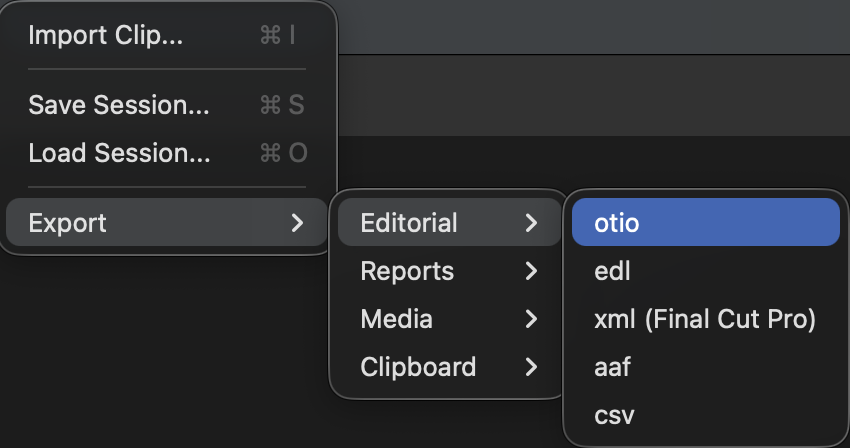
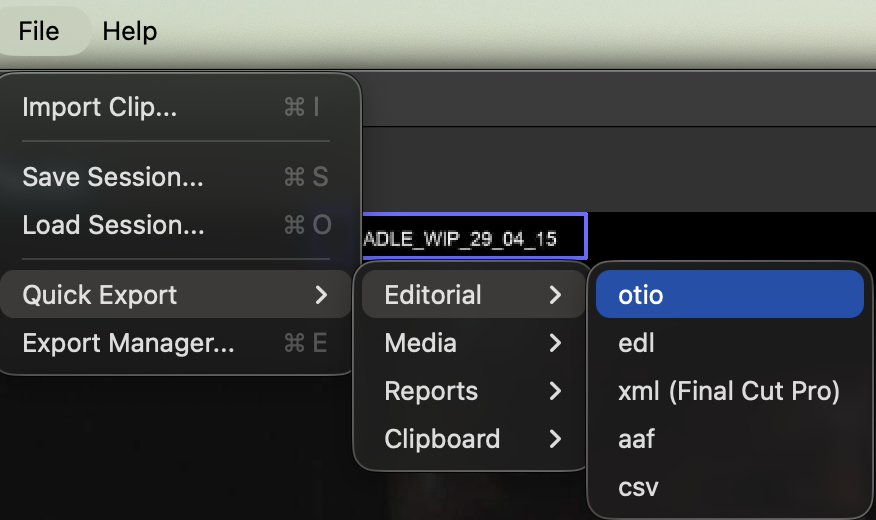
updated docs with export manager

diff --git a/docs/exporting.md b/docs/exporting.md
@@ -1,11 +1,14 @@
 # Exporting
-![Image title](assets/cdui_export_editorial.png)
+![Image title](assets/cdui_export_editorial.png){ width=500px }
 
-To export the cut data as presented in the [Shots Table](shots_table.md), use the... surprise: File/Export menu!
+To export the cut data as presented in the [Shots Table](shots_table.md),
+either use Quick Export or the Export Manager for more control
+
+![Image title](assets/cdui_export_manager.png)
 
 There are four categories and the respective output formats (as of June 2026):
 
-:material-text-box-edit-outline:Editorial Data...  
+- [x] Editorial Data...  
 ...to be imported into editorial applications:
 
 - [x] otio
